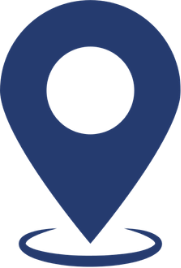
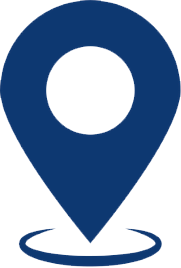
quinto

diff --git a/styles.css b/styles.css
@@ -7,7 +7,48 @@
   margin: 0;
   padding: 0;
 }
+/* =======================================================
+   GIFS DE FONDO FIJOS EN ESQUINAS (MÁS GRANDES)
+   ======================================================= */
+.gif-fondo {
+  position: fixed;
+  z-index: -1;
+  pointer-events: none;
+  object-fit: contain;
+  opacity: 0.85;
+}
 
+/* 1. GIF Esquina Superior Derecha (Doble de tamaño) */
+.gif-esquina-superior-derecha {
+  top: 27vh;
+  right: -140px; /* Ajustado para el nuevo ancho */
+  transform: translateY(-20%);
+  width: 400px;  /* Duplicado de 200px a 400px */
+  height: auto;
+}
+
+/* 2. GIF Esquina Inferior Izquierda (Doble de tamaño) */
+.gif-esquina-inferior-izquierda {
+  bottom: -100px; /* Ajustado para el nuevo alto */
+  left: -140px;   /* Ajustado para el nuevo ancho */
+  width: 660px;   /* Duplicado de 220px a 440px */
+  height: auto;
+}
+
+/* Adaptación para dispositivos móviles */
+@media (max-width: 600px) {
+  .gif-esquina-superior-derecha {
+    width: 380px; /* Duplicado para móvil */
+    right: -170px;
+    transform: translateY(-15%);
+  }
+
+  .gif-esquina-inferior-izquierda {
+    width: 360px; /* Duplicado para móvil */
+    bottom: -70px;
+    left: -160px;
+  }
+}
 body {
   font-family: system-ui, -apple-system, BlinkMacSystemFont, 'Segoe UI', Roboto, Oxygen, Ubuntu, Cantarell, sans-serif;
   
@@ -545,7 +586,48 @@ body {
 .btn-final:hover {
   background-color: #218838;
 }
+/* =======================================================
+   AJUSTE DE CENTRADO PERFECTO: TEXTO + BOTÓN INFERIOR
+   ======================================================= */
+.caja-texto-boton {
+  text-align: center;
+  padding: 25px 20px;
+}
 
+.texto-seccion-bloque {
+  font-family: 'Playfair Display', serif;
+  font-size: 1.05rem;
+  line-height: 1.6;
+  color: #2d3748;
+  margin-bottom: 20px;
+  text-align: center; /* Garantiza centrado del texto en cualquier pantalla */
+}
+
+.contenedor-boton-inferior {
+  display: flex;
+  justify-content: center;
+  align-items: center;
+  width: 100%;
+  margin: 0 auto;
+}
+
+.contenedor-boton-inferior .tarjeta-boton {
+  flex: none; /* Desactiva la expansión flex para que no se recargue hacia un lado */
+  width: 100%;
+  max-width: 200px; /* Ancho ideal en escritorio */
+  margin: 0 auto; /* Centrado clásico horizontal */
+}
+
+@media (max-width: 600px) {
+  .texto-seccion-bloque {
+    font-size: 0.95rem;
+    margin-bottom: 16px;
+  }
+
+  .contenedor-boton-inferior .tarjeta-boton {
+    max-width: 170px; /* Proporción cómoda para pantallas táctiles */
+  }
+}
 /* =======================================================
    10. MEDIA QUERIES (ADAPTABILIDAD A MÓVILES)
    ======================================================= */

diff --git a/index.html b/index.html
@@ -12,6 +12,8 @@
 <link href="https://fonts.googleapis.com/css2?family=Great+Vibes&display=swap" rel="stylesheet">
 </head>
 <body>
+  <img src="canva/asset/disco2.gif" alt="" class="gif-fondo gif-esquina-superior-derecha">
+<img src="canva/asset/disco2.gif" alt="" class="gif-fondo gif-esquina-inferior-izquierda">
 
   <!-- =======================================================
        1. ENCABEZADO FIJO
@@ -132,21 +134,21 @@
 <section class="galeria-botones-adaptable">
 
   <!-- Botón 1 -->
-  <a href="https://www.tu-enlace-1.com" target="_blank" rel="noopener noreferrer" class="tarjeta-boton">
+  <a href="" target="_blank" rel="noopener noreferrer" class="tarjeta-boton">
     <img src="canva/asset/cruz.png" alt="Icono 1" class="img-boton">
     <span class="texto-boton">CEREMONIA</span>
     <H6>16:45 HRS</H6>
   </a>
 
   <!-- Botón 2 -->
-  <a href="https://www.tu-enlace-2.com" target="_blank" rel="noopener noreferrer" class="tarjeta-boton">
+  <a href="" target="_blank" rel="noopener noreferrer" class="tarjeta-boton">
     <img src="canva/asset/pin.png" alt="Icono 2" class="img-boton">
     <span class="texto-boton">RECEPCION</span>
     <H6>18:30 HRS</H6>
   </a>
 
   <!-- Botón 3 -->
-  <a href="https://www.tu-enlace-3.com" target="_blank" rel="noopener noreferrer" class="tarjeta-boton">
+  <a href="" target="_blank" rel="noopener noreferrer" class="tarjeta-boton">
     <img src="canva/asset/banquete.png" alt="Icono 3" class="img-boton">
     <span class="texto-boton">BANQUETE</span>
     <H6>19:30 HRS</H6>
@@ -208,7 +210,7 @@
 <BR></BR>
   <!-- 2. Botón con imagen debajo -->
   <div class="contenedor-boton-inferior">
-    <a href="https://www.tu-enlace.com" target="_blank" rel="noopener noreferrer" class="tarjeta-boton">
+    <a href="" target="_blank" rel="noopener noreferrer" class="tarjeta-boton">
       <img src="canva/asset/MICROFONO.png" alt="Confirmar Asistencia" class="img-boton">
       <span class="texto-boton">da click</span>
     </a>
